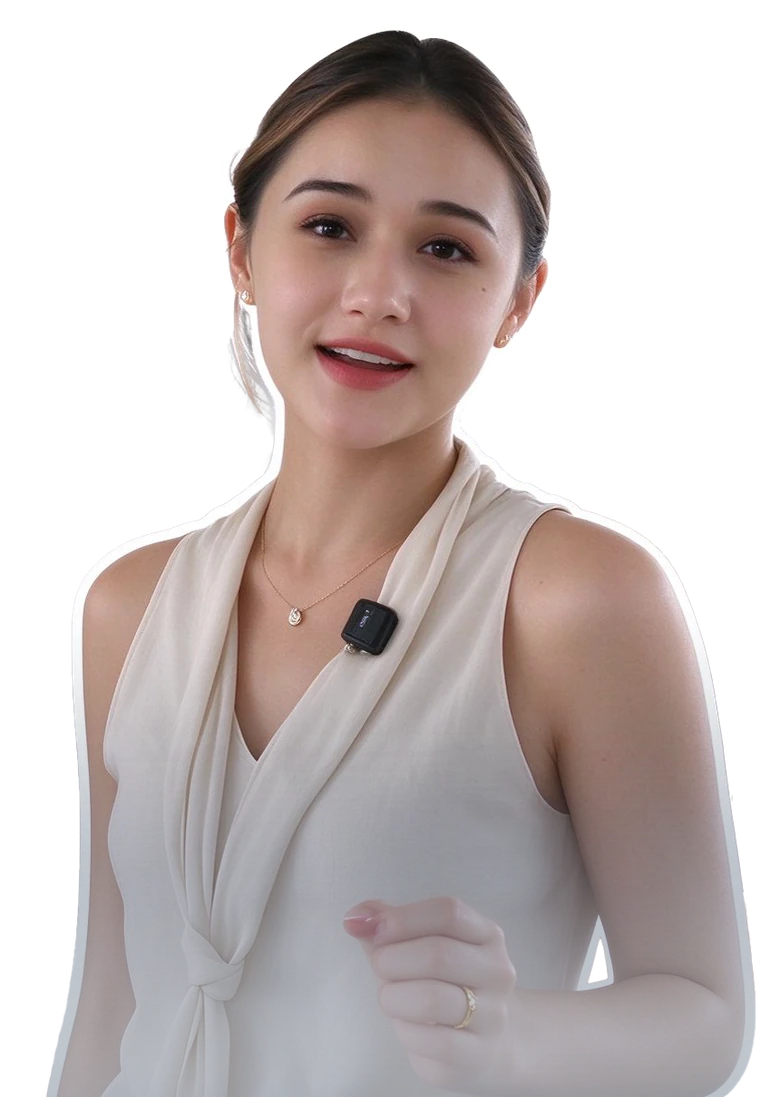
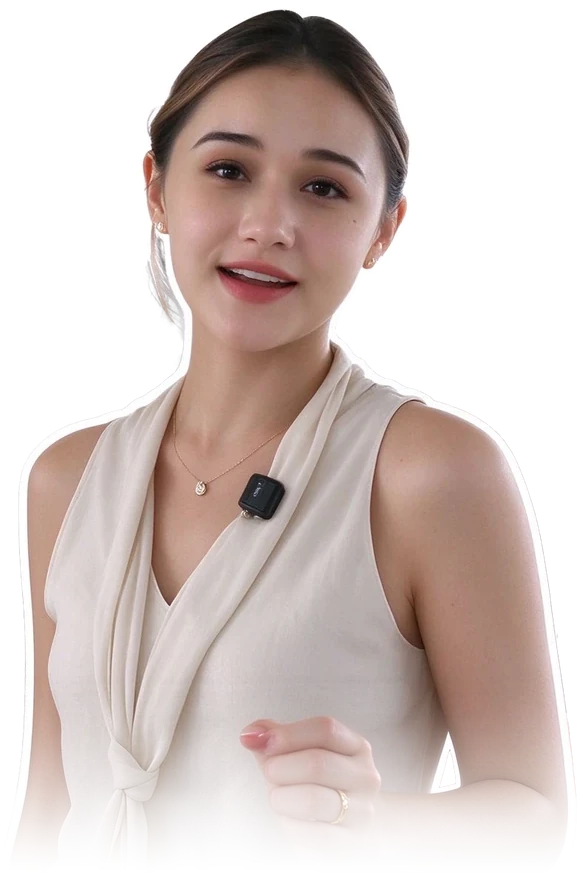
首页人像改用真透明底素材+底部渐隐，移除蓝色渐变遮罩；900 断点 proof 加深底

diff --git a/index.html b/index.html
@@ -1156,7 +1156,9 @@
 .hero-person-glow{position:absolute;right:-60px;bottom:-20px;width:330px;height:330px;border-radius:50%;
   background:radial-gradient(circle,rgba(215,168,79,.30),rgba(215,168,79,0) 68%);pointer-events:none;z-index:1;}
 .hero-person-photo{position:relative;z-index:2;width:min(318px,100%);margin-left:auto;}
-.hero-person-photo img{display:block;width:100%;height:auto;filter:drop-shadow(0 24px 44px rgba(0,0,0,.45));}
+.hero-person-photo img{display:block;width:100%;height:auto;filter:drop-shadow(0 24px 44px rgba(0,0,0,.45));
+  -webkit-mask-image:linear-gradient(to bottom,#000 72%,rgba(0,0,0,0) 88%);
+  mask-image:linear-gradient(to bottom,#000 72%,rgba(0,0,0,0) 88%);}
 .hero-person-card{position:relative;z-index:3;margin-top:-84px;padding:20px 22px 22px;border-radius:16px;
   border:1px solid rgba(255,255,255,.07);
   background:linear-gradient(155deg,rgba(6,22,42,.7) 0%,rgba(7,31,59,.9) 58%,rgba(6,22,42,.95) 100%);
@@ -1164,9 +1166,6 @@
   box-shadow:0 26px 60px rgba(3,10,20,.5),inset 0 1px 0 rgba(255,255,255,.07);}
 .hero-person-card::before{content:"";position:absolute;left:0;right:0;top:0;height:2px;border-radius:16px 16px 0 0;
   background:linear-gradient(90deg,rgba(215,168,79,0),rgba(215,168,79,.8) 18%,rgba(242,199,109,.95) 52%,rgba(215,168,79,0));}
-.hero-person-card::after{content:"";position:absolute;left:-2px;right:-2px;bottom:calc(100% + 0px);height:70px;
-  background:linear-gradient(to top,rgba(7,31,59,.8),rgba(7,31,59,.32) 46%,rgba(7,31,59,0));
-  pointer-events:none;}
 .hp-kicker{display:flex;align-items:center;gap:8px;color:var(--gold-2);font-size:10px;font-weight:800;letter-spacing:2.1px;text-transform:uppercase;}
 .hp-kicker::before{content:"";width:16px;height:1.5px;background:linear-gradient(90deg,var(--gold),rgba(215,168,79,0));}
 .hp-name{display:block;margin-top:9px;font-size:27px;line-height:1.05;font-weight:800;letter-spacing:-.6px;color:#fff;}
@@ -1261,7 +1260,9 @@
   .hero-proof{grid-column:1;grid-row:3;width:min(780px,100%);margin-top:20px;}
   .hero-person-glow{display:none;}
   .hero-person-photo{display:block;width:188px;margin-left:auto;margin-right:6px;}
-  .hero-person-photo img{filter:drop-shadow(0 14px 30px rgba(0,0,0,.42));-webkit-mask-image:linear-gradient(to bottom,#000 87%,rgba(0,0,0,0) 100%);mask-image:linear-gradient(to bottom,#000 87%,rgba(0,0,0,0) 100%);}
+  .hero-person-photo img{filter:drop-shadow(0 14px 30px rgba(0,0,0,.42));
+    -webkit-mask-image:linear-gradient(to bottom,#000 76%,rgba(0,0,0,0) 98%);
+    mask-image:linear-gradient(to bottom,#000 76%,rgba(0,0,0,0) 98%);}
   .hero-person-card{margin-top:-60px;padding:20px;}
   .hero-person-card::after{display:none;}
   .hp-avatar{display:none;}
@@ -1286,6 +1287,8 @@
   .cat-more{padding:22px 20px;}
   .cat-more .btn{width:100%;}
   .hero-person-photo{position:absolute;width:104px;bottom:10px;right:8px;margin:0;z-index:4;}
+  .hero-person-photo img{-webkit-mask-image:linear-gradient(to bottom,#000 64%,rgba(0,0,0,0) 92%);
+    mask-image:linear-gradient(to bottom,#000 64%,rgba(0,0,0,0) 92%);}
   .hero-person-card{margin-top:18px;padding:16px 122px 16px 16px;min-height:184px;}
   .hp-kicker{font-size:9px;letter-spacing:1.5px;gap:6px;}
   .hp-kicker::before{width:12px;}
@@ -1296,6 +1299,8 @@
 }
 /* ===================== 统一排版节奏（移动端） ===================== */
 @media (max-width: 900px) {
+  .hero-proof { background: rgba(6,20,38,.62); border-color: rgba(255,255,255,.14); }
+  .proof-item { background: rgba(6,20,38,.5); }
   .section-kicker { font-size: 11px; line-height: 1.4; letter-spacing: .14em; }
   .section-title,
   .contact-band h2,

diff --git a/about.html b/about.html
@@ -843,6 +843,8 @@
     }
   /* ===================== 统一排版节奏（移动端） ===================== */
 @media (max-width: 900px) {
+  .hero-proof { background: rgba(6,20,38,.62); border-color: rgba(255,255,255,.14); }
+  .proof-item { background: rgba(6,20,38,.5); }
   .section-kicker { font-size: 11px; line-height: 1.4; letter-spacing: .14em; }
   .section-title,
   .contact-band h2,

diff --git a/cases.html b/cases.html
@@ -966,6 +966,8 @@
     }
   /* ===================== 统一排版节奏（移动端） ===================== */
 @media (max-width: 900px) {
+  .hero-proof { background: rgba(6,20,38,.62); border-color: rgba(255,255,255,.14); }
+  .proof-item { background: rgba(6,20,38,.5); }
   .section-kicker { font-size: 11px; line-height: 1.4; letter-spacing: .14em; }
   .section-title,
   .contact-band h2,

diff --git a/categories.html b/categories.html
@@ -1247,6 +1247,8 @@
 }
 /* ===================== 统一排版节奏（移动端） ===================== */
 @media (max-width: 900px) {
+  .hero-proof { background: rgba(6,20,38,.62); border-color: rgba(255,255,255,.14); }
+  .proof-item { background: rgba(6,20,38,.5); }
   .section-kicker { font-size: 11px; line-height: 1.4; letter-spacing: .14em; }
   .section-title,
   .contact-band h2,

diff --git a/_tools/export_hero_photo2.py b/_tools/export_hero_photo2.py
@@ -1,0 +1,22 @@
+# -*- coding: utf-8 -*-
+"""用桌面新素材 aliya.png（真透明底 + 底部自然渐隐）重做 hero 人物图。"""
+import io, os
+from PIL import Image
+
+base = os.path.dirname(os.path.dirname(os.path.abspath(__file__)))
+src = r'C:\Users\Administrator\Desktop\aliya.png'
+im = Image.open(src).convert('RGBA')
+print('src', im.size)
+
+# 裁掉四周全透明边缘，保留少量留白
+bbox = im.split()[-1].getbbox()
+print('alpha bbox', bbox)
+im = im.crop(bbox)
+
+out1 = im.resize((int(im.width * 0.98), int(im.height * 0.98)), Image.LANCZOS)
+p1 = os.path.join(base, 'img', 'aliya-hero.webp')
+out1.save(p1, 'WEBP', quality=90, method=6)
+p2 = os.path.join(base, 'img', 'aliya-hero@2x.webp')
+im.save(p2, 'WEBP', quality=90, method=6)
+for p in (p1, p2):
+    print(p, Image.open(p).size, round(os.path.getsize(p) / 1024, 1), 'KB')
